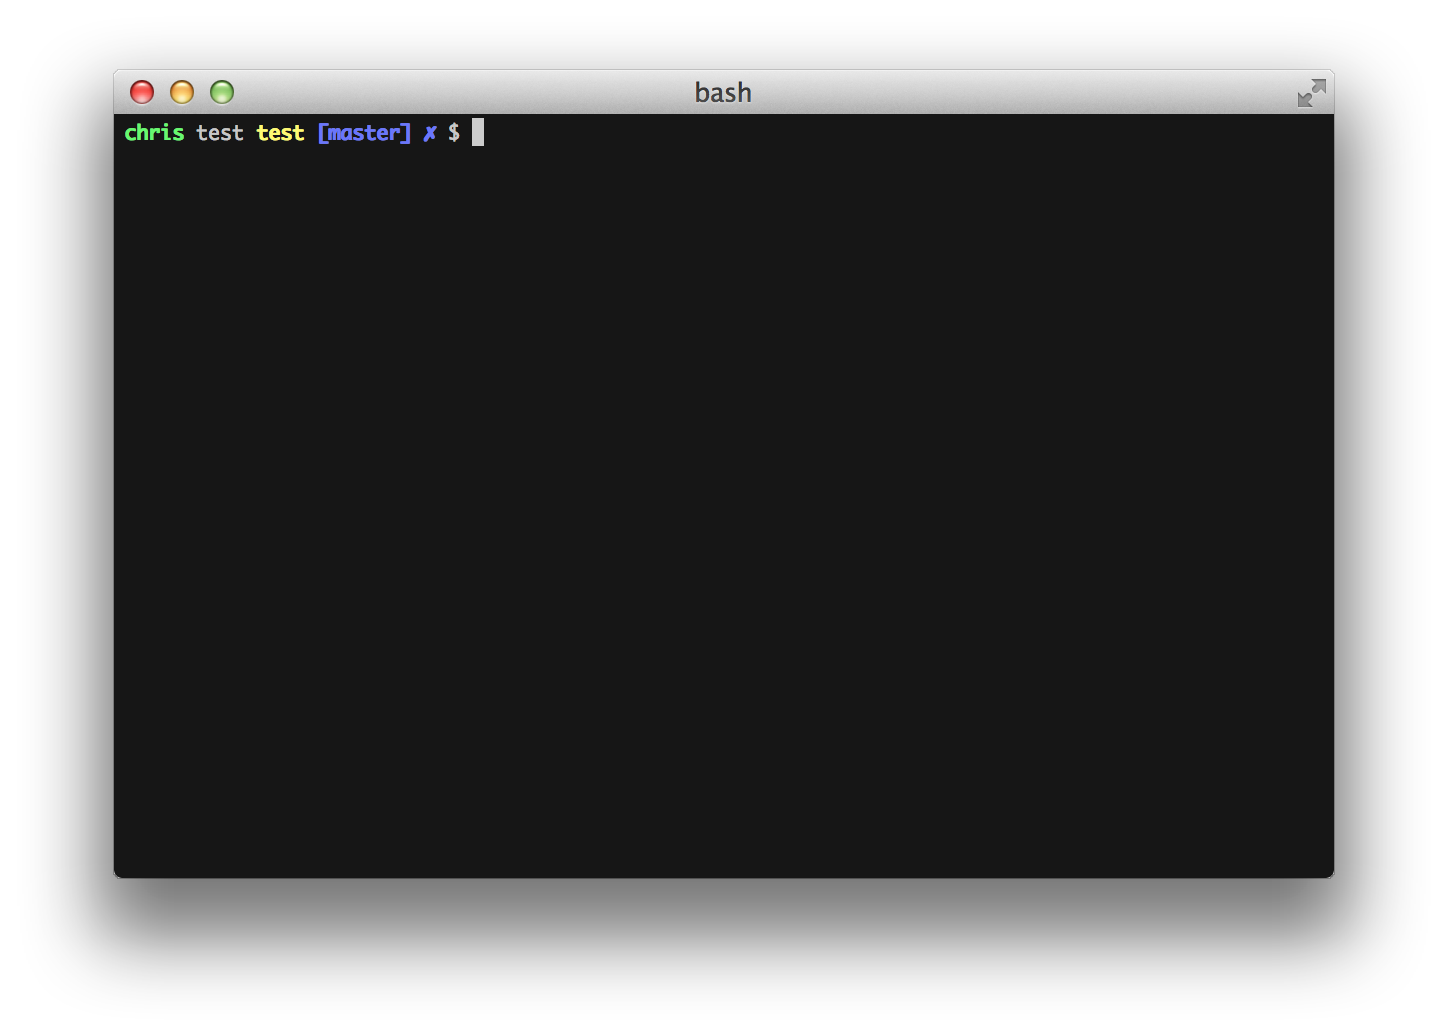
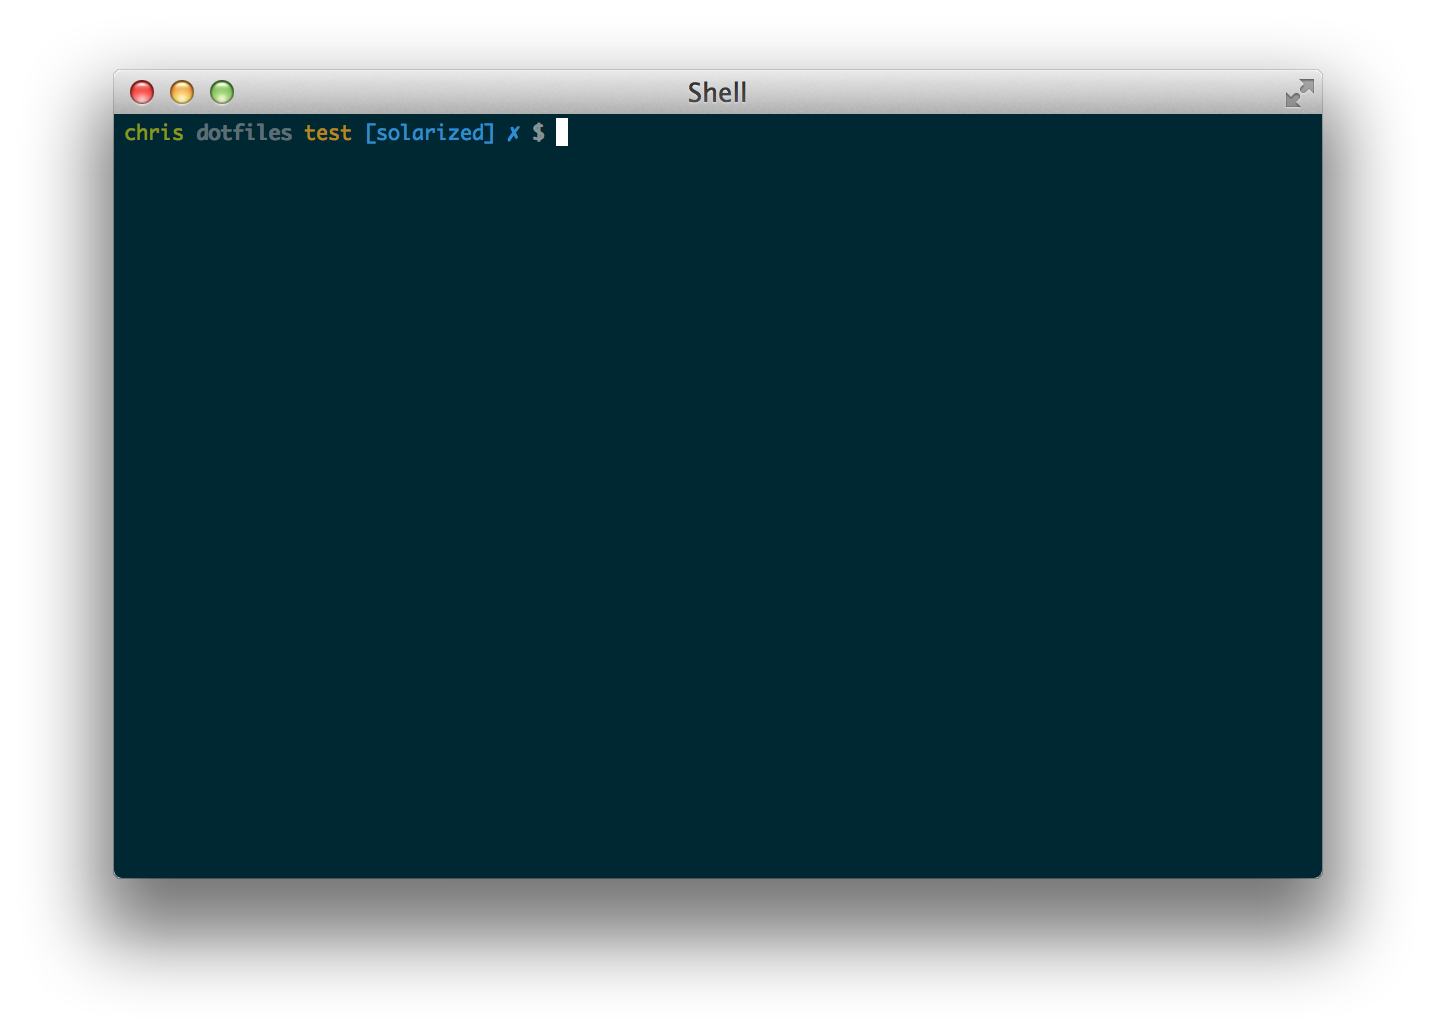
Clean up bash_profile, add vimrc
Also updates screenshot and adds nice descriptons to the README

diff --git a/README.md b/README.md
@@ -2,12 +2,23 @@
 
 Default prompts be damned!
 
-Here are my super simple dotfiles for OS X and Linux systems. Kudos to [Adam Szatrowski](https://github.com/adam410) for getting me set up with iTerm2 and on my merry way. Also kudos to [Jeff Uthaichai](https://github.com/jeffu) for the global gitignore info.
+Here are my super simple dotfiles for OS X and Linux systems. Kudos to [Adam Szatrowski](https://github.com/adam410) for getting me set up with iTerm2 and on my merry way, [Roger Lopez](https://github.com/zroger) and [Karina Ruzinov](https://github.com/karina) for getting me addicted to VIM, and [Jeff Uthaichai](https://github.com/jeffu) for the global gitignore info.
 
-Here's a screenshot of what it looks like:
 ![image](screenshot.png)
 
 * green is current user
 * grey is present working directory
 * yellow is current virtualenv (see postactivate script to hook into virtualenv)
-* blue is current git branch with (X) for out of sync
+* blue is current git branch with `✗` for out of sync
+
+### vim
+
+* `,d` brings up [NERDTree](https://github.com/scrooloose/nerdtree), a sidebar buffer for navigating and manipulating files
+* `,t` brings up [ctrlp.vim](https://github.com/kien/ctrlp.vim), a project file filter for easily opening specific files
+* `,b` restricts ctrlp.vim to open buffers
+* `,a` starts project search with [ag.vim](https://github.com/rking/ag.vim) using [the silver searcher](https://github.com/ggreer/the_silver_searcher) (like ack, but faster)
+* `,g` toggles gitgutter
+* `\\\` toggles current line comment
+* `\\` toggles visual selection comment lines
+* `vii`/`vai` visually select *in* or *around* the cursor's indent
+* `<C-k>`/`<C-l>` move between windows
